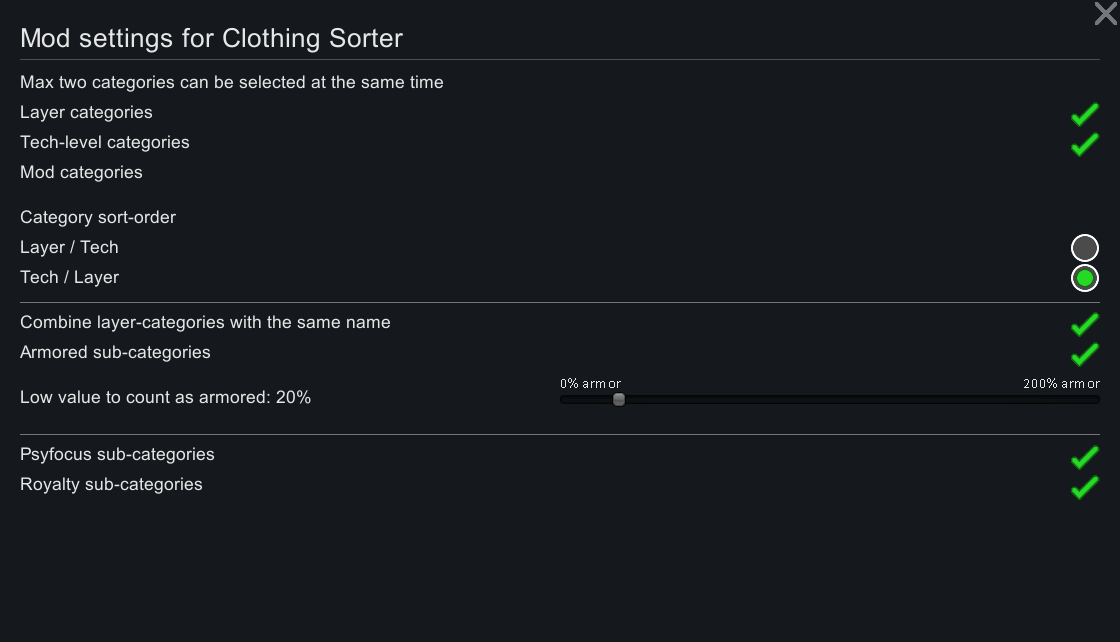
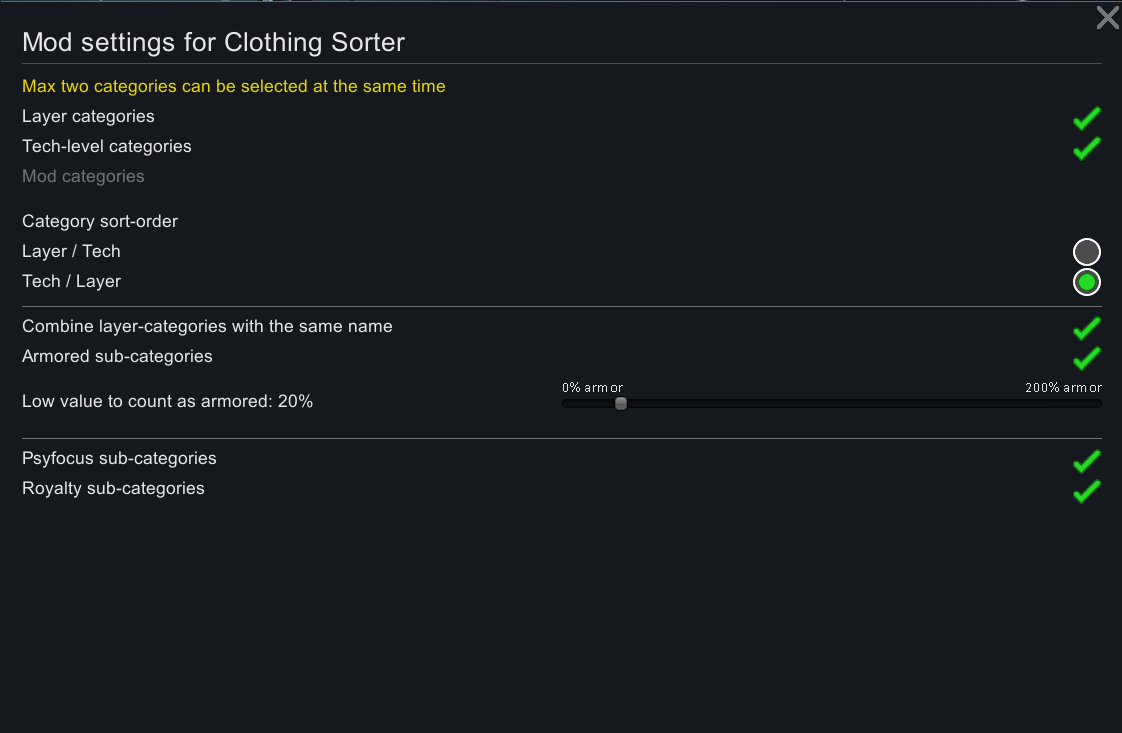
Uniquier translation-keys, updated russian translation.

diff --git a/Source/ClothingSorter/Settings/Mod.cs b/Source/ClothingSorter/Settings/Mod.cs
@@ -53,7 +53,7 @@ namespace ClothingSorter
             var listing_Standard = new Listing_Standard();
             listing_Standard.Begin(rect);
             GUI.contentColor = Color.yellow;
-            listing_Standard.Label("SettingDeselectOptions".Translate());
+            listing_Standard.Label("CS_SettingDeselectOptions".Translate());
             GUI.contentColor = Color.white;
             if (!(Settings.SortByLayer || Settings.SortByTech || Settings.SortByMod))
             {
@@ -64,46 +64,46 @@ namespace ClothingSorter
                 var categories = new string[2];
                 if (Settings.SortByLayer)
                 {
-                    listing_Standard.CheckboxLabeled("SettingLayerCategories".Translate(), ref Settings.SortByLayer, "SettingLayerCategoriesDescription".Translate());
-                    categories[0] = "SettingLayer".Translate();
+                    listing_Standard.CheckboxLabeled("CS_SettingLayerCategories".Translate(), ref Settings.SortByLayer, "CS_SettingLayerCategoriesDescription".Translate());
+                    categories[0] = "CS_SettingLayer".Translate();
                 }
                 else
                 {
                     GUI.contentColor = Color.grey;
-                    listing_Standard.Label("SettingLayerCategories".Translate(), -1, "SettingDeselectOptions".Translate());
+                    listing_Standard.Label("CS_SettingLayerCategories".Translate(), -1, "CS_SettingDeselectOptions".Translate());
                     GUI.contentColor = Color.white;
                 }
                 if (Settings.SortByTech)
                 {
-                    listing_Standard.CheckboxLabeled("SettingTechCategories".Translate(), ref Settings.SortByTech, "SettingTechCategoriesDescription".Translate());
+                    listing_Standard.CheckboxLabeled("CS_SettingTechCategories".Translate(), ref Settings.SortByTech, "CS_SettingTechCategoriesDescription".Translate());
                     if (string.IsNullOrEmpty(categories[0]))
                     {
-                        categories[0] = "SettingTech".Translate();
+                        categories[0] = "CS_SettingTech".Translate();
                     }
                     else
                     {
-                        categories[1] = "SettingTech".Translate();
+                        categories[1] = "CS_SettingTech".Translate();
                     }
                 }
                 else
                 {
                     GUI.contentColor = Color.grey;
-                    listing_Standard.Label("SettingTechCategories".Translate(), -1, "SettingDeselectOptions".Translate());
+                    listing_Standard.Label("CS_SettingTechCategories".Translate(), -1, "CS_SettingDeselectOptions".Translate());
                     GUI.contentColor = Color.white;
                 }
                 if (Settings.SortByMod)
                 {
-                    listing_Standard.CheckboxLabeled("SettingModCategories".Translate(), ref Settings.SortByMod, "SettingModCategoriesDescription".Translate());
-                    categories[1] = "SettingMod".Translate();
+                    listing_Standard.CheckboxLabeled("CS_SettingModCategories".Translate(), ref Settings.SortByMod, "CS_SettingModCategoriesDescription".Translate());
+                    categories[1] = "CS_SettingMod".Translate();
                 }
                 else
                 {
                     GUI.contentColor = Color.grey;
-                    listing_Standard.Label("SettingModCategories".Translate(), -1, "SettingDeselectOptions".Translate());
+                    listing_Standard.Label("CS_SettingModCategories".Translate(), -1, "CS_SettingDeselectOptions".Translate());
                     GUI.contentColor = Color.white;
                 }
                 listing_Standard.Gap();
-                listing_Standard.Label("SettingSortOrder".Translate());
+                listing_Standard.Label("CS_SettingSortOrder".Translate());
                 if (listing_Standard.RadioButton_NewTemp($"{categories[0]} / {categories[1]}", Settings.SortSetting == 0))
                 {
                     Settings.SortSetting = 0;
@@ -115,13 +115,13 @@ namespace ClothingSorter
             }
             else
             {
-                listing_Standard.CheckboxLabeled("SettingLayerCategories".Translate(), ref Settings.SortByLayer, "SettingLayerCategoriesDescription".Translate());
-                listing_Standard.CheckboxLabeled("SettingTechCategories".Translate(), ref Settings.SortByTech, "SettingTechCategoriesDescription".Translate());
-                listing_Standard.CheckboxLabeled("SettingModCategories".Translate(), ref Settings.SortByMod, "SettingModCategoriesDescription".Translate());
+                listing_Standard.CheckboxLabeled("CS_SettingLayerCategories".Translate(), ref Settings.SortByLayer, "CS_SettingLayerCategoriesDescription".Translate());
+                listing_Standard.CheckboxLabeled("CS_SettingTechCategories".Translate(), ref Settings.SortByTech, "CS_SettingTechCategoriesDescription".Translate());
+                listing_Standard.CheckboxLabeled("CS_SettingModCategories".Translate(), ref Settings.SortByMod, "CS_SettingModCategoriesDescription".Translate());
 
                 GUI.contentColor = Color.grey;
                 listing_Standard.Gap();
-                listing_Standard.Label("SettingSortOrder".Translate());
+                listing_Standard.Label("CS_SettingSortOrder".Translate());
                 listing_Standard.Label("/");
                 listing_Standard.Label("/");
                 GUI.contentColor = Color.white;
@@ -129,25 +129,25 @@ namespace ClothingSorter
             listing_Standard.GapLine();
             if (Settings.SortByLayer)
             {
-                listing_Standard.CheckboxLabeled("SettingCombineLayers".Translate(), ref Settings.CombineLayers, "SettingCombineLayersDescription".Translate());
+                listing_Standard.CheckboxLabeled("CS_SettingCombineLayers".Translate(), ref Settings.CombineLayers, "CS_SettingCombineLayersDescription".Translate());
             }
             else
             {
                 GUI.contentColor = Color.grey;
-                listing_Standard.Label("SettingCombineLayers".Translate(), -1, "SettingCombineLayersDescription".Translate());
+                listing_Standard.Label("CS_SettingCombineLayers".Translate(), -1, "CS_SettingCombineLayersDescription".Translate());
                 GUI.contentColor = Color.white;
             }
-            listing_Standard.CheckboxLabeled("SettingArmoredCategories".Translate(), ref Settings.ArmoredSeparate, "SettingArmoredCategoriesDescription".Translate());
+            listing_Standard.CheckboxLabeled("CS_SettingArmoredCategories".Translate(), ref Settings.ArmoredSeparate, "CS_SettingArmoredCategoriesDescription".Translate());
             if (Settings.ArmoredSeparate)
             {
-                listing_Standard.AddLabeledSlider(TranslatorFormattedStringExtensions.Translate("SettingArmoredLowValue", Math.Round(Settings.ArmorRating * 100)), ref Settings.ArmorRating, 0f, 2f, "SettingArmoredMin".Translate(), "SettingArmoredMax".Translate(), 0.01f, false);
+                listing_Standard.AddLabeledSlider(TranslatorFormattedStringExtensions.Translate("CS_SettingArmoredLowValue", Math.Round(Settings.ArmorRating * 100)), ref Settings.ArmorRating, 0f, 2f, "CS_SettingArmoredMin".Translate(), "CS_SettingArmoredMax".Translate(), 0.01f, false);
                 listing_Standard.Gap();
                 listing_Standard.GapLine();
             }
             if (ModLister.RoyaltyInstalled)
             {
-                listing_Standard.CheckboxLabeled("SettingPsyfocusCategories".Translate(), ref Settings.PsychicSeparate, "SettingPsyfocusCategoriesDescription".Translate());
-                listing_Standard.CheckboxLabeled("SettingRoyaltyCategories".Translate(), ref Settings.RoyaltySeparate, "SettingRoyaltyCategoriesDescription".Translate());
+                listing_Standard.CheckboxLabeled("CS_SettingPsyfocusCategories".Translate(), ref Settings.PsychicSeparate, "CS_SettingPsyfocusCategoriesDescription".Translate());
+                listing_Standard.CheckboxLabeled("CS_SettingRoyaltyCategories".Translate(), ref Settings.RoyaltySeparate, "CS_SettingRoyaltyCategoriesDescription".Translate());
             }
             listing_Standard.End();
 

diff --git a/Source/ClothingSorter/ClothingSorter.cs b/Source/ClothingSorter/ClothingSorter.cs
@@ -111,7 +111,7 @@ namespace ClothingSorter
         {
             Log.Message($"Sorting by layer, then by {nextSortOption}");
             var layerDefs = (from layerDef in DefDatabase<ApparelLayerDef>.AllDefsListForReading orderby layerDef.label select layerDef).ToList();
-            layerDefs.Add(new ApparelLayerDef { defName = "Layer_None", label = "NoLayer".Translate() });
+            layerDefs.Add(new ApparelLayerDef { defName = "Layer_None", label = "CS_NoLayer".Translate() });
             var selectedLayers = new List<ApparelLayerDef>();
             for (var layerInt = 0; layerInt < layerDefs.Count(); layerInt++)
             {
@@ -274,7 +274,7 @@ namespace ClothingSorter
             ThingCategoryDef missingModThingCategory = DefDatabase<ThingCategoryDef>.GetNamedSilentFail(missingModDefName);
             if (missingModThingCategory == null)
             {
-                missingModThingCategory = new ThingCategoryDef { defName = missingModDefName, label = "NoLayer".Translate() };
+                missingModThingCategory = new ThingCategoryDef { defName = missingModDefName, label = "CS_NoLayer".Translate() };
                 DefGenerator.AddImpliedDef(missingModThingCategory);
             }
             if (nextSortOption == NextSortOption.None)
